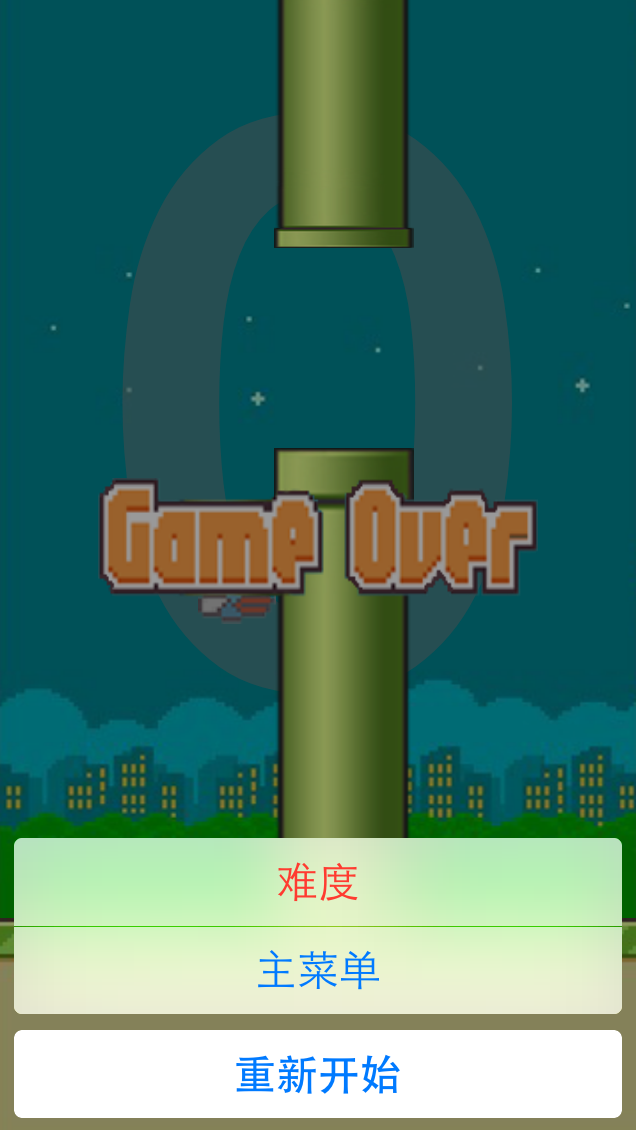
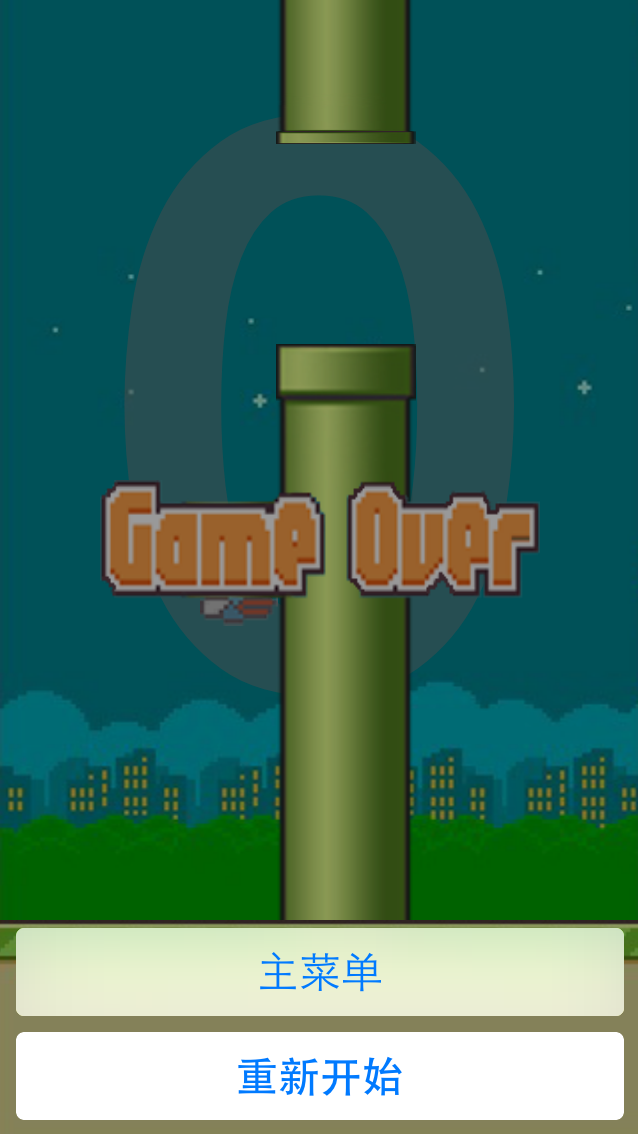
调整界面布局；添加游戏难度设定界面；实现游戏排行榜功能。

diff --git a/flappyBird/ViewController.m b/flappyBird/ViewController.m
@@ -10,6 +10,8 @@
 #import "GameViewController.h"
 #import "Common.h"
 #import "DataTool.h"
+#import "RateViewController.h"
+#import "RankViewController.h"
 
 @interface ViewController ()
 
@@ -20,6 +22,14 @@
 - (void)viewDidLoad {
     [super viewDidLoad];
     // Do any additional setup after loading the view, typically from a nib.
+    //初始化数据
+    if ([DataTool stringForKey:kRateKey] == nil) {
+        [DataTool setObject:@"一般" forKey:kRateKey];
+    }
+    if ([DataTool objectForKey:kRankKey] == nil) {
+        NSArray *ranks = [NSArray arrayWithObjects:@"0", @"0", @"0", @"0", @"0", nil];
+        [DataTool setObject:ranks forKey:kRankKey];
+    }    
     
     [self setupUI];
 }
@@ -32,18 +42,18 @@
     
     //标题
     CGFloat titleX = (kScreenWidth - kMainTitleW) / 2;
-    UIImageView *titleView = [[UIImageView alloc]initWithFrame:CGRectMake(titleX, 60, kMainTitleW, kMainTitleH)];
+    UIImageView *titleView = [[UIImageView alloc]initWithFrame:CGRectMake(titleX, 80, kMainTitleW, kMainTitleH)];
     titleView.image = [UIImage imageNamed:@"main"];
     [self.view addSubview:titleView];
     
     //分数
     CGFloat scoreViewX = (kScreenWidth - kScoreViewW) / 2;
-    UIImageView *scoreView = [[UIImageView alloc]initWithFrame:CGRectMake(scoreViewX, 185, kScoreViewW, kScoreViewH)];
+    UIImageView *scoreView = [[UIImageView alloc]initWithFrame:CGRectMake(scoreViewX, 205, kScoreViewW, kScoreViewH)];
     scoreView.image = [UIImage imageNamed:@"score"];
     [self.view addSubview:scoreView];
     //显示分数
     CGFloat bestX = 200;
-    CGFloat bestY = 265;
+    CGFloat bestY = 285;
     CGFloat bestW = 40;
     CGFloat bestH = 20;
     UILabel *bestScore = [[UILabel alloc] initWithFrame:CGRectMake(bestX, bestY, bestW, bestH)];
@@ -54,7 +64,7 @@
     [self.view addSubview:bestScore];
     
     CGFloat scoreX = 200;
-    CGFloat scoreY = 220;
+    CGFloat scoreY = 240;
     CGFloat scoreW = 40;
     CGFloat scoreH = 20;
     UILabel *score = [[UILabel alloc] initWithFrame:CGRectMake(scoreX, scoreY, scoreW, scoreH)];
@@ -67,7 +77,7 @@
     
     //birds动画
     NSMutableArray *birds = [[NSMutableArray alloc]init];
-    UIImageView *birdViews = [[UIImageView alloc]initWithFrame:CGRectMake(140, 135, 40, 32)];
+    UIImageView *birdViews = [[UIImageView alloc]initWithFrame:CGRectMake(140, 155, 40, 32)];
     for (NSInteger i = 1; i <= 3; i++) {
         UIImage *bird = [UIImage imageNamed:[NSString stringWithFormat:@"bird%zi", i]];
         [birds addObject:bird];
@@ -81,19 +91,19 @@
     //创建速度按钮
     UIButton *rateButton = [UIButton buttonWithType:UIButtonTypeCustom];
     CGFloat rateX = (kScreenWidth - kRateButtonW) / 2;
-    rateButton.frame = CGRectMake(rateX, 335, kRateButtonW, kRateButtonH);
+    rateButton.frame = CGRectMake(rateX, 355, kRateButtonW, kRateButtonH);
     [rateButton setImage:[UIImage imageNamed:@"rate"] forState:UIControlStateNormal];
     [self.view addSubview:rateButton];
     
     //创建开始按钮
     UIButton *startButton = [UIButton buttonWithType:UIButtonTypeCustom];
-    startButton.frame = CGRectMake(50, 410, kStartButtonW, kStartButtonH);
+    startButton.frame = CGRectMake(50, 430, kStartButtonW, kStartButtonH);
     [startButton setImage:[UIImage imageNamed:@"start"] forState:UIControlStateNormal];
     [self.view addSubview:startButton];
     
     //创建排行榜按钮
     UIButton *rankButton = [UIButton buttonWithType:UIButtonTypeCustom];
-    rankButton.frame = CGRectMake(170, 410, kRankButtonW, kRankButtonH);
+    rankButton.frame = CGRectMake(170, 430, kRankButtonW, kRankButtonH);
     [rankButton setImage:[UIImage imageNamed:@"rank"] forState:UIControlStateNormal];
     [self.view addSubview:rankButton];
     
@@ -106,7 +116,8 @@
 #pragma mark - 按钮响应方法
 #pragma mark 点击速度
 -(void)onRateButtonClick{
-    NSLog(@"rate");
+    RateViewController *rateController = [[RateViewController alloc] init];
+    [self presentViewController:rateController animated:YES completion:nil];
 }
 
 #pragma mark 点击开始
@@ -117,8 +128,8 @@
 
 #pragma mark 点击排行榜
 -(void)onRankButtonClick{
-    NSLog(@"rank");
-
+    RankViewController *rankController = [[RankViewController alloc] init];
+    [self presentViewController:rankController animated:YES completion:nil];
 }
 
 #pragma mark 隐藏状态栏

diff --git a/flappyBird/RankViewController.m b/flappyBird/RankViewController.m
@@ -1,30 +1,31 @@
 //
-//  RateViewController.m
+//  RankViewController.m
 //  flappyBird
 //
 //  Created by dengwei on 16/1/24.
 //  Copyright (c) 2016年 dengwei. All rights reserved.
 //
 
-#import "RateViewController.h"
+#import "RankViewController.h"
 #import "Common.h"
 #import "DataTool.h"
 
-@interface RateViewController ()<UITableViewDelegate, UITableViewDataSource>
+@interface RankViewController ()<UITableViewDataSource, UITableViewDelegate>
 
-@property (nonatomic, strong) NSArray *rates;
+@property (nonatomic, strong) NSArray *titles;
+@property (nonatomic, strong) NSArray *ranks;
+
 @end
 
-@implementation RateViewController
+@implementation RankViewController
 
 - (void)viewDidLoad {
     [super viewDidLoad];
     // Do any additional setup after loading the view.
-    
-    _rates = [NSArray arrayWithObjects:@"疯狂", @"超难", @"困难", @"一般", @"普通", nil];
+    _titles = [NSArray arrayWithObjects:@"Top 1", @"Top 2", @"Top 3", @"Top 4", @"Top 5", nil];
+    _ranks = (NSArray *)[DataTool objectForKey:kRankKey];
     
     [self setupUI];
-    
     [self setupTableView];
 }
 
@@ -36,50 +37,49 @@
     UIImageView *titleView = [[UIImageView alloc]initWithFrame:CGRectMake(titleX, 80, kMainTitleW, kMainTitleH)];
     titleView.image = [UIImage imageNamed:@"main"];
     [self.view addSubview:titleView];
+    
+    //返回按钮
+    UIButton *backButton = [UIButton buttonWithType:UIButtonTypeCustom];
+    backButton.frame = CGRectMake(40, kScreenHeight-100, 60, 40);
+    [backButton setImage:[UIImage imageNamed:@"back"] forState:UIControlStateNormal];
+    [self.view addSubview:backButton];
+    [backButton addTarget:self action:@selector(onBackButtonClick) forControlEvents:UIControlEventTouchUpInside];
 }
 
 -(void)setupTableView {
     UITableView *tableView = [[UITableView alloc] initWithFrame:CGRectMake(60, 160, kScreenWidth-120, kScreenHeight - 260) style:UITableViewStyleGrouped];
     tableView.delegate = self;
     tableView.dataSource = self;
-    //tableView.separatorStyle = UITableViewCellSeparatorStyleNone;
+    tableView.separatorStyle = UITableViewCellSeparatorStyleNone;
     tableView.scrollEnabled = NO; //设置tableview 不能滚动
     [self.view addSubview:tableView];
     tableView.backgroundColor = [UIColor clearColor];
 }
 
+-(void)onBackButtonClick {
+    [self dismissViewControllerAnimated:YES completion:nil];
+}
+
 #pragma mark - UITableViewDataSource
 -(NSInteger)tableView:(UITableView *)tableView numberOfRowsInSection:(NSInteger)section {
-    return _rates.count;
+    return _titles.count;
 }
 
 -(UITableViewCell *)tableView:(UITableView *)tableView cellForRowAtIndexPath:(NSIndexPath *)indexPath {
-    static NSString *cellId = @"myCell";
+    static NSString *cellId = @"myCellId";
     UITableViewCell *cell = [tableView dequeueReusableCellWithIdentifier:cellId];
     if (cell == nil) {
-        cell = [[UITableViewCell alloc] initWithStyle:UITableViewCellStyleDefault reuseIdentifier:cellId];
+        cell = [[UITableViewCell alloc] initWithStyle:UITableViewCellStyleValue1 reuseIdentifier:cellId];
     }
     
     cell.textLabel.textColor = [UIColor orangeColor];
     cell.textLabel.font = [UIFont boldSystemFontOfSize:18];
-    cell.textLabel.text = _rates[indexPath.row];
+    cell.textLabel.text = _titles[indexPath.row];
     cell.backgroundColor = [UIColor clearColor];
     cell.selectionStyle = UITableViewCellSelectionStyleNone; //设置表格选择样式,不显示选中的样式
-    if ([cell.textLabel.text isEqualToString:[DataTool stringForKey:kRateKey]]) {
-        cell.accessoryType = UITableViewCellAccessoryCheckmark;
-    }else{
-        cell.accessoryType = UITableViewCellAccessoryNone;
-    }
+    cell.detailTextLabel.text = _ranks[indexPath.row];
     
     return cell;
-}
-
-#pragma mark - UITableViewDelegate
-
--(void)tableView:(UITableView *)tableView didSelectRowAtIndexPath:(NSIndexPath *)indexPath {
-    [DataTool setObject:_rates[indexPath.row] forKey:kRateKey];
-    
-    [self dismissViewControllerAnimated:YES completion:nil];
 }
 
 #pragma mark 隐藏状态栏
@@ -91,6 +91,5 @@
     [super didReceiveMemoryWarning];
     // Dispose of any resources that can be recreated.
 }
-
 
 @end

diff --git a/flappyBird/GameViewController.m b/flappyBird/GameViewController.m
@@ -78,7 +78,8 @@
     UITapGestureRecognizer *tap = [[UITapGestureRecognizer alloc]initWithTarget:self action:@selector(onTap)];
     [tapView addGestureRecognizer:tap];
     [self.view addSubview:tapView];
-
+    
+    //物理重力系数
     number = 0;
     
     //计时器
@@ -186,10 +187,26 @@
 
 #pragma mark 更新分数记录
 -(void)updateScore {
+    //更新最佳成绩
     if (columnNumber > [DataTool integerForKey:kBestScoreKey]) {
         [DataTool setInteger:columnNumber forKey:kBestScoreKey];
     }
+    //更新本局分数
     [DataTool setInteger:columnNumber forKey:kCurrentScoreKey];
+    //更新排行榜
+    NSMutableArray *ranks = (NSMutableArray *)[DataTool objectForKey:kRankKey];
+    NSInteger count = ranks.count;
+    for (NSInteger i = 0; i < count; i++) {
+        NSString *scoreStr = ranks[i];
+        NSInteger score = [scoreStr integerValue];
+        if (score < columnNumber) {
+            scoreStr = [NSString stringWithFormat:@"%zi", columnNumber];
+            [ranks insertObject:scoreStr atIndex:i];
+            [ranks removeLastObject];
+            break;
+        }
+    }
+    [DataTool setObject:ranks forKey:kRankKey];
 }
 
 -(void)onStop {
@@ -200,19 +217,15 @@
     //停止定时器
     [timer setFireDate:[NSDate distantFuture]];
     //弹出选项框
-    UIActionSheet *action = [[UIActionSheet alloc]initWithTitle:nil delegate:self cancelButtonTitle:@"重新开始" destructiveButtonTitle:@"难度" otherButtonTitles:@"主菜单",nil];
+    UIActionSheet *action = [[UIActionSheet alloc]initWithTitle:nil delegate:self cancelButtonTitle:@"重新开始" destructiveButtonTitle:nil otherButtonTitles:@"主菜单",nil];
     [action showInView:self.view];
 }
 
 -(void)actionSheet:(UIActionSheet *)actionSheet clickedButtonAtIndex:(NSInteger)buttonIndex {
-    if (buttonIndex == 2) {
+    if (buttonIndex == 1) {
         //重新开始
         ViewController *viewController = [[ViewController alloc]init];
         [self presentViewController:viewController animated:YES completion:nil];
-    }else if (buttonIndex == 0){
-        //难度
-        RateViewController *rateController = [[RateViewController alloc]init];
-        [self presentViewController:rateController animated:YES completion:nil];
     } else {
         //主菜单
         ViewController *viewController = [[ViewController alloc]init];

diff --git a/flappyBird/Tool/DataTool.h b/flappyBird/Tool/DataTool.h
@@ -11,20 +11,46 @@
 @interface DataTool : NSObject
 
 /**
- *  根据指定key获取值
+ *  根据指定key获取整型值
  *
  *  @param defaultName key值
  *
- *  @return 与key相对应的值
+ *  @return 与key相对应的整型值
  */
 + (NSInteger)integerForKey:(NSString *)defaultName;
 
 /**
- *  设置相应的键值对
+ *  设置相应的整型键值对
  *
  *  @param value       值
  *  @param defaultName 键
  */
 + (void)setInteger:(NSInteger)value forKey:(NSString *)defaultName;
+
+/**
+ *  获取指定key的字符串
+ *
+ *  @param defaultName key值
+ *
+ *  @return 与key值相对应的字符串
+ */
++ (NSString *)stringForKey:(NSString *)defaultName;
+
+/**
+ *  获取指定key的对象值
+ *
+ *  @param defaultName key值
+ *
+ *  @return 与key值对应的对象
+ */
++ (instancetype)objectForKey:(NSString *)defaultName;
+
+/**
+ *  设置指定key的键值对
+ *
+ *  @param value       值
+ *  @param defaultName 键
+ */
++ (void)setObject:(id)value forKey:(NSString *)defaultName;
 
 @end

diff --git a/flappyBird/Tool/DataTool.m b/flappyBird/Tool/DataTool.m
@@ -19,4 +19,17 @@
     [[NSUserDefaults standardUserDefaults] synchronize];
 }
 
++ (NSString *)stringForKey:(NSString *)defaultName {
+    return [[NSUserDefaults standardUserDefaults] stringForKey:defaultName];
+}
+
++ (void)setObject:(id)value forKey:(NSString *)defaultName {
+    [[NSUserDefaults standardUserDefaults] setObject:value forKey:defaultName];
+    [[NSUserDefaults standardUserDefaults] synchronize];
+}
+
++ (instancetype)objectForKey:(NSString *)defaultName {
+    return [[NSUserDefaults standardUserDefaults] objectForKey:defaultName];
+}
+
 @end

diff --git a/flappyBird/RankViewController.h b/flappyBird/RankViewController.h
@@ -1,0 +1,13 @@
+//
+//  RankViewController.h
+//  flappyBird
+//
+//  Created by dengwei on 16/1/24.
+//  Copyright (c) 2016年 dengwei. All rights reserved.
+//
+
+#import <UIKit/UIKit.h>
+
+@interface RankViewController : UIViewController
+
+@end

diff --git a/flappyBird/Other/Common.h b/flappyBird/Other/Common.h
@@ -52,5 +52,9 @@
 #define kBestScoreKey @"bestScore"
 /**本局成绩*/
 #define kCurrentScoreKey @"currentScore"
+/**游戏难度等级*/
+#define kRateKey @"rate"
+/**游戏排行榜*/
+#define kRankKey @"rank"
 
 #endif

diff --git a/README.md b/README.md
@@ -4,6 +4,7 @@ flappyBird Game</br>
  * 开始游戏
  * 游戏音效
  * 重新开始
+ * 排行榜
 
 # Screenshots
 <img alt="one" src="https://raw.github.com/charsdavy/flappyBird/master/screenshots/fp1.png" width="180">
@@ -11,6 +12,10 @@ flappyBird Game</br>
 <img alt="one" src="https://raw.github.com/charsdavy/flappyBird/master/screenshots/fp2.png" width="180">
 &nbsp;&nbsp;
 <img alt="one" src="https://raw.github.com/charsdavy/flappyBird/master/screenshots/fp3.png" width="180">
+&nbsp;&nbsp;
+<img alt="one" src="https://raw.github.com/charsdavy/flappyBird/master/screenshots/fp4.png" width="180">
+&nbsp;&nbsp;
+<img alt="one" src="https://raw.github.com/charsdavy/flappyBird/master/screenshots/fp5.png" width="180">
 &nbsp;&nbsp;
 
 # Blog
